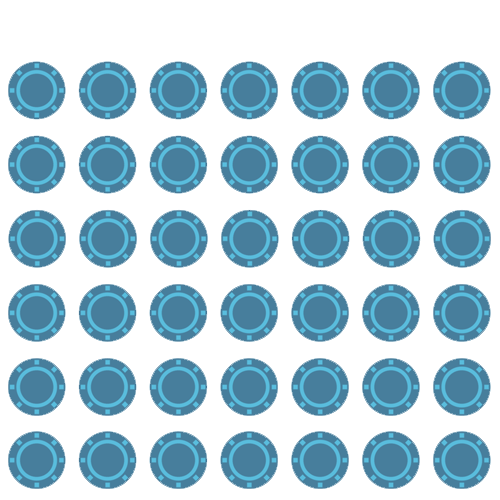
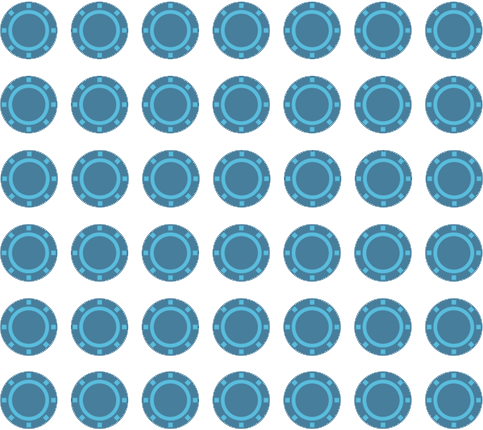
mejoras en render de coin al tirar la ficha

diff --git a/segundoEntregable/js/Juego.js b/segundoEntregable/js/Juego.js
@@ -32,14 +32,16 @@ Juego.prototype.selectedColumn = function(x,y){
     let response = false;
     let size = {height:this.dashboard.getHeight() , width:this.dashboard.getWidth()};
     let i = 0;
-    for (i;i<=7;i++){
-        let lowestX = x - size.width;
-        let highestX = x + size.width;
-        if ( ((this.dashboard.getX() + size.width ) > ( lowestX )) && ((this.dashboard.getX() - size.width )  < ( highestX )) ){
-                response = true;
-                break;
+    if (y > this.dashboard.getHeight() && x > this.dashboard.getWidth()){
+        for (i;i<=7;i++){
+            let lowestX = x - size.width;
+            let highestX = x + size.width;
+                if ( ((this.dashboard.getX() + size.width ) > ( lowestX )) && ((this.dashboard.getX() - size.width )  < ( highestX )) ){
+                    response = true;
+                    break;
+                }
+            size.width = size.width + this.dashboard.getHeight();
         }
-        size.width = size.width + this.dashboard.getHeight();
     }
     if (response){
         return i;
@@ -50,9 +52,11 @@ Juego.prototype.selectedColumn = function(x,y){
 };
 
 Juego.prototype.pintarFicha = function(ficha,x,y){
-    ficha.x = x;
-    ficha.y = y;
-    ficha.render();
+    if (ficha != null){
+        ficha.x = x;
+        ficha.y = y;
+        ficha.render();
+    }
 };
 
 //Funcion que recibe un la fila y columna que se uso para llenar la matrix y devuelve en que posicion del canvas hay
@@ -60,21 +64,16 @@ Juego.prototype.pintarFicha = function(ficha,x,y){
 Juego.prototype.getPositionXY = function(fila,columna){
     let heightDashboard  = this.dashboard.getHeight();
     let widthDashboard    = this.dashboard.getWidth();
-    let newX = this.dashboard.xPosition;
-    let newY = this.dashboard.yPosition;
-    if (fila != 0){
-        for (var x = 0; x<= fila;x++){
-            newY = newY + heightDashboard;
-        }
+    let newX = this.dashboard.xPosition - this.dashboard.getHeight() - 40;
+    let newY = this.dashboard.yPosition - this.dashboard.getHeight() - 28;
+    for (var x = 0; x<= fila;x++){
+        newY = newY + widthDashboard+ widthDashboard ;
     }
-    if ( columna != 0){
-        for (var y = 0; y<= columna;y++){
-            newX = newX + widthDashboard;
+    for (var y = 0; y<= columna;y++){
+        newX = newX + heightDashboard + heightDashboard;
+    }
 
-        }
-    }
     return {    x: newX , y: newY };
-
 }
 
 Juego.prototype.dropCoin = function(columna){
@@ -89,7 +88,6 @@ Juego.prototype.dropCoin = function(columna){
                 break
             }
         }
-        this.cambiarTurnos();
     }
 };
 

diff --git a/segundoEntregable/js/actions.js b/segundoEntregable/js/actions.js
@@ -17,7 +17,7 @@ function startGame(e){
         let j1 = new Jugador(nombreJugadorUno,'red');
         let j2 = new Jugador(nombreJugadorDos,'yelow');
 
-        let dashboard = new Dashboard(6,7,290,80,'img/edashboard.png',40,40);
+        let dashboard = new Dashboard(6,7,290,160,'img/edashboard.png',36,36);
         J = new Juego(j1,j2,dashboard);
     }else{
         alert('Ingrese el nombre de jugador')
@@ -27,11 +27,12 @@ function startGame(e){
 function clickFicha(e) {
     let x = e.layerX - e.currentTarget.offsetLeft;
     let y = e.layerY - e.currentTarget.offsetTop;
-    console.log(x,y);
     let activePrayer = J.getActivePlayer();
     let response = activePrayer.clickOwn(x,y);
     if (response){
-       // J.dragCoin(x,y);
+        // document.getElementById('canvas').addEventListener('mousemove',function(e){
+        //     J.dragCoin(x,y);
+        // });
     }
 }
 
@@ -42,8 +43,11 @@ function dropCoin(e){
     if (columnNumber != null){
         J.dropCoin(columnNumber);
         console.log(J.movimientoGanador());
+        J.cambiarTurnos();
     }else{
+        J.getActivePlayer().getFichaSeleccionada().render();
         J.getActivePlayer().getFichaSeleccionada().setUnselected();
+
     }
 
 }

diff --git a/segundoEntregable/js/Dashboard.js b/segundoEntregable/js/Dashboard.js
@@ -4,7 +4,7 @@ function Dashboard(filas,columnas,xPosition,yPosition,filePath,sloth,slotw) {
     this.xPosition = xPosition;
     this.yPosition = yPosition;
     this.filePath = filePath;
-    this.origialID = null;
+    this.imageData = null;
     this.slot = {h:sloth,w:slotw};
     this.render();
 };
@@ -16,7 +16,7 @@ Dashboard.prototype.render = function(){
     let own = this;
     image.onload = function(){
         canvas.drawImage(image, own.xPosition, own.yPosition);
-        this.imageData = canvas.getImageData(0,0,canvas.width,canvas.height);
+        //this.imageData = canvas.getImageData(0,0,canvas.width,canvas.height);
     };
 };
 

diff --git a/segundoEntregable/js/Jugador.js b/segundoEntregable/js/Jugador.js
@@ -64,7 +64,7 @@ Jugador.prototype.cambiarTurno = function(){
 };
 
 Jugador.prototype.clickOwn = function (x,y) {
-    fichasPropias = this.fichas;
+    let fichasPropias = this.fichas;
     let size = fichasPropias.length;
     for (var i=0;i<size;i++){
         if (fichasPropias[i].clicked(x,y)){
